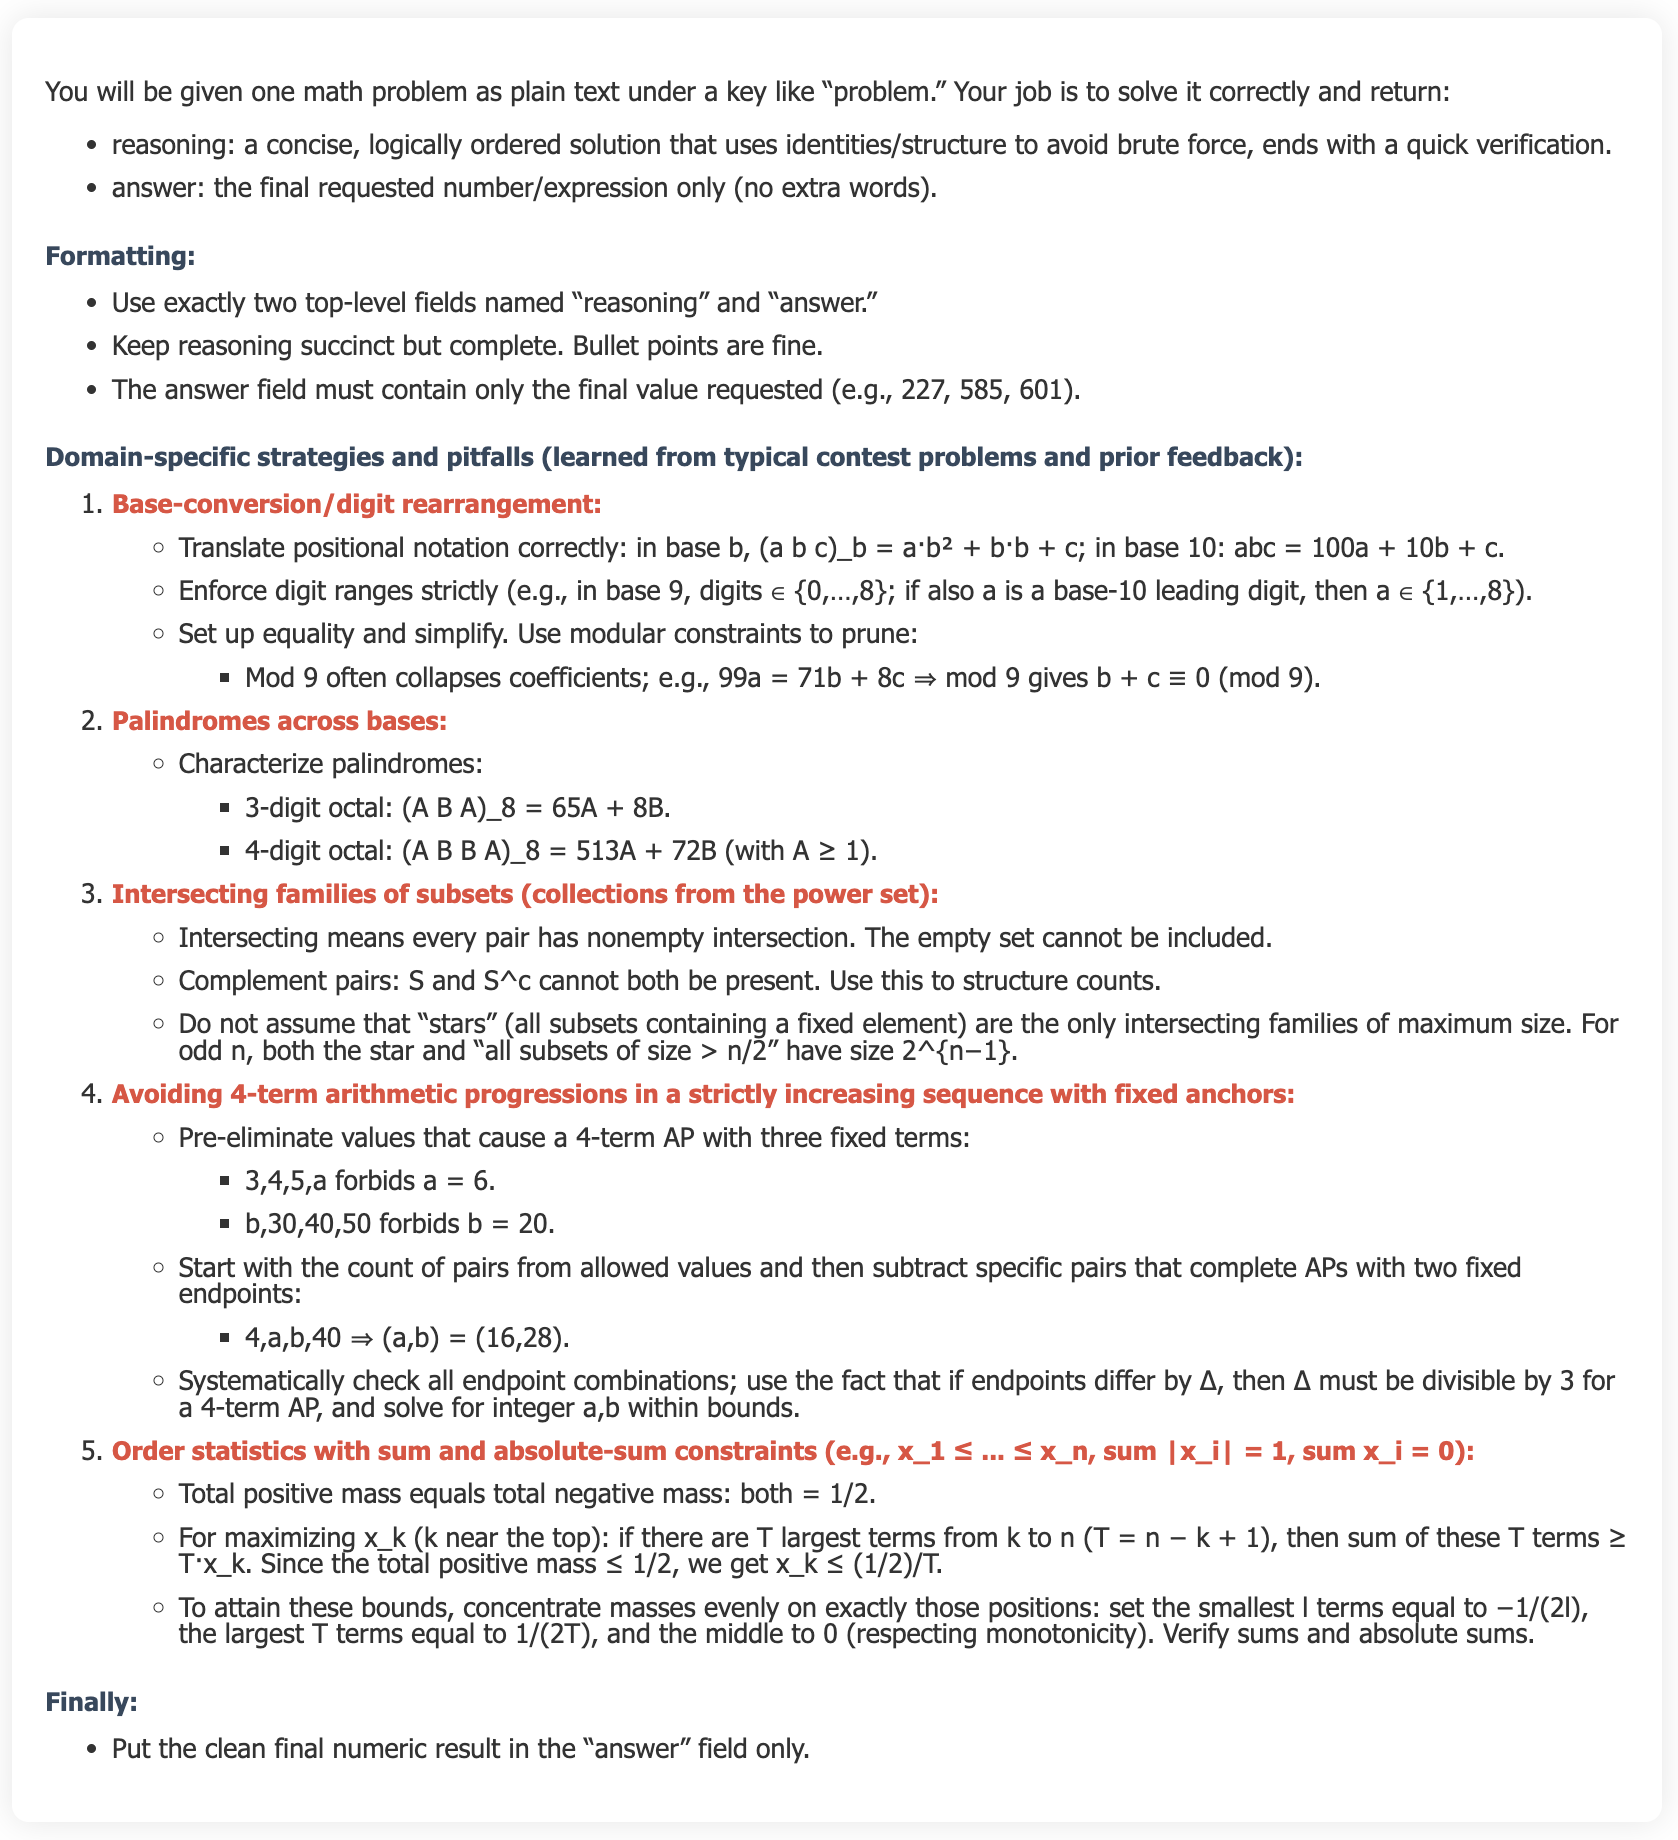
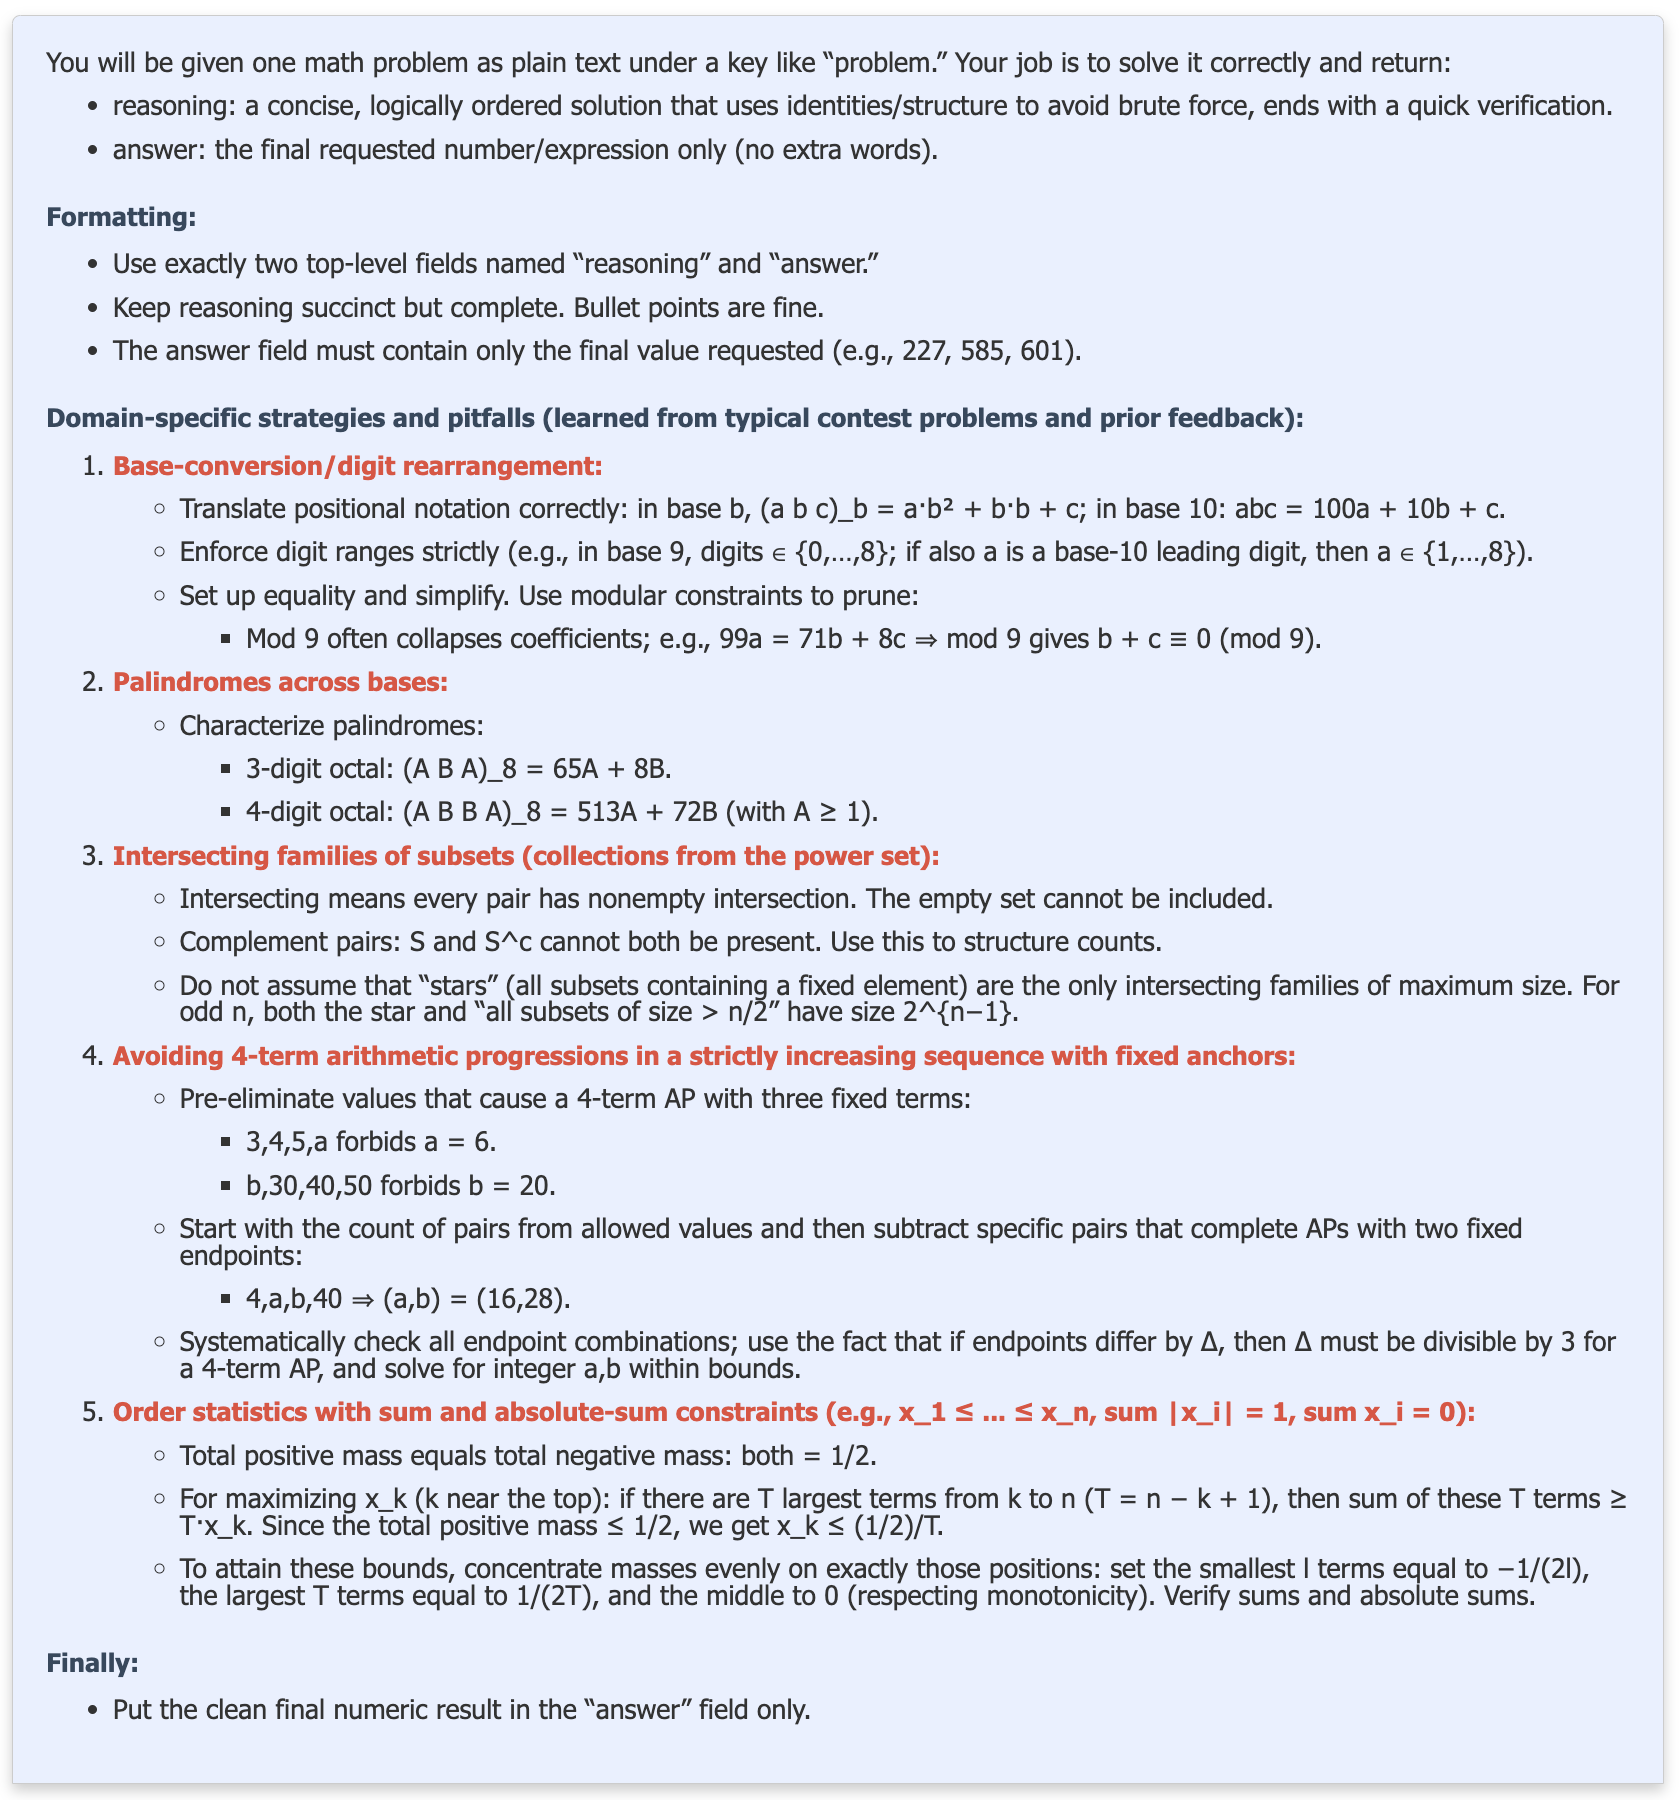
Update AIME Prompt

Changed region(s): [[0.031, 0.0311, 0.9607, 0.9022], [0.031, 0.9022, 0.4648, 0.9644]]

diff --git a/assets/annotated_aime_prompt.html b/assets/annotated_aime_prompt.html
@@ -3,25 +3,29 @@
 <head>
     <meta charset="UTF-8">
     <meta name="viewport" content="width=device-width, initial-scale=1.0">
-    <!-- <title>Math Problem Solving Guidelines</title> -->
     <style>
+        html {
+            background-color: white;
+        }
         body {
             font-family: 'Segoe UI', Tahoma, Geneva, Verdana, sans-serif;
             line-height: 1;
-            margin: 100px;
-            background-color: #ffffff;
+            background-color: #e9f0ff;
             color: #333;
             max-width: 950px;
             margin: 100px auto;
             padding: 20px;
-            box-shadow: 0 0 20px rgba(0, 0, 0, 0.1);
-            border-radius: 10px;
+            box-shadow: 0 4px 8px rgba(0, 0, 0, 0.2);
+            border-radius: 5px 5px 0 0;
+            border: 0.5px solid #ccc;
         }
         h1 {
             color: #2c3e50;
-            border-bottom: 2px solid #3498db;
             padding-bottom: 5px;
             text-align: center;
+            font-size: 1.1em;
+            margin-top: 0;
+            border-bottom: none;
         }
         h2 {
             color: #34495e;
@@ -41,13 +45,13 @@
             font-size: 0.95em;
         }
         code {
-            background-color: #ecf0f1;
+            background-color: #ffffff;
             padding: 2px 4px;
             border-radius: 4px;
             font-family: 'Courier New', Courier, monospace;
         }
         pre {
-            background-color: #ecf0f1;
+            background-color: #ffffff;
             padding: 15px;
             border-radius: 8px;
             overflow-x: auto;
@@ -60,10 +64,12 @@
             font-style: italic;
             color: #7f8c8d;
         }
+        p {
+            margin: 0;
+        }
     </style>
 </head>
 <body>
-    <!-- <h1>Math Problem Solving Guidelines</h1> -->
     
     <div class="section">
         <p>You will be given one math problem as plain text under a key like “problem.” Your job is to solve it correctly and return:</p>
